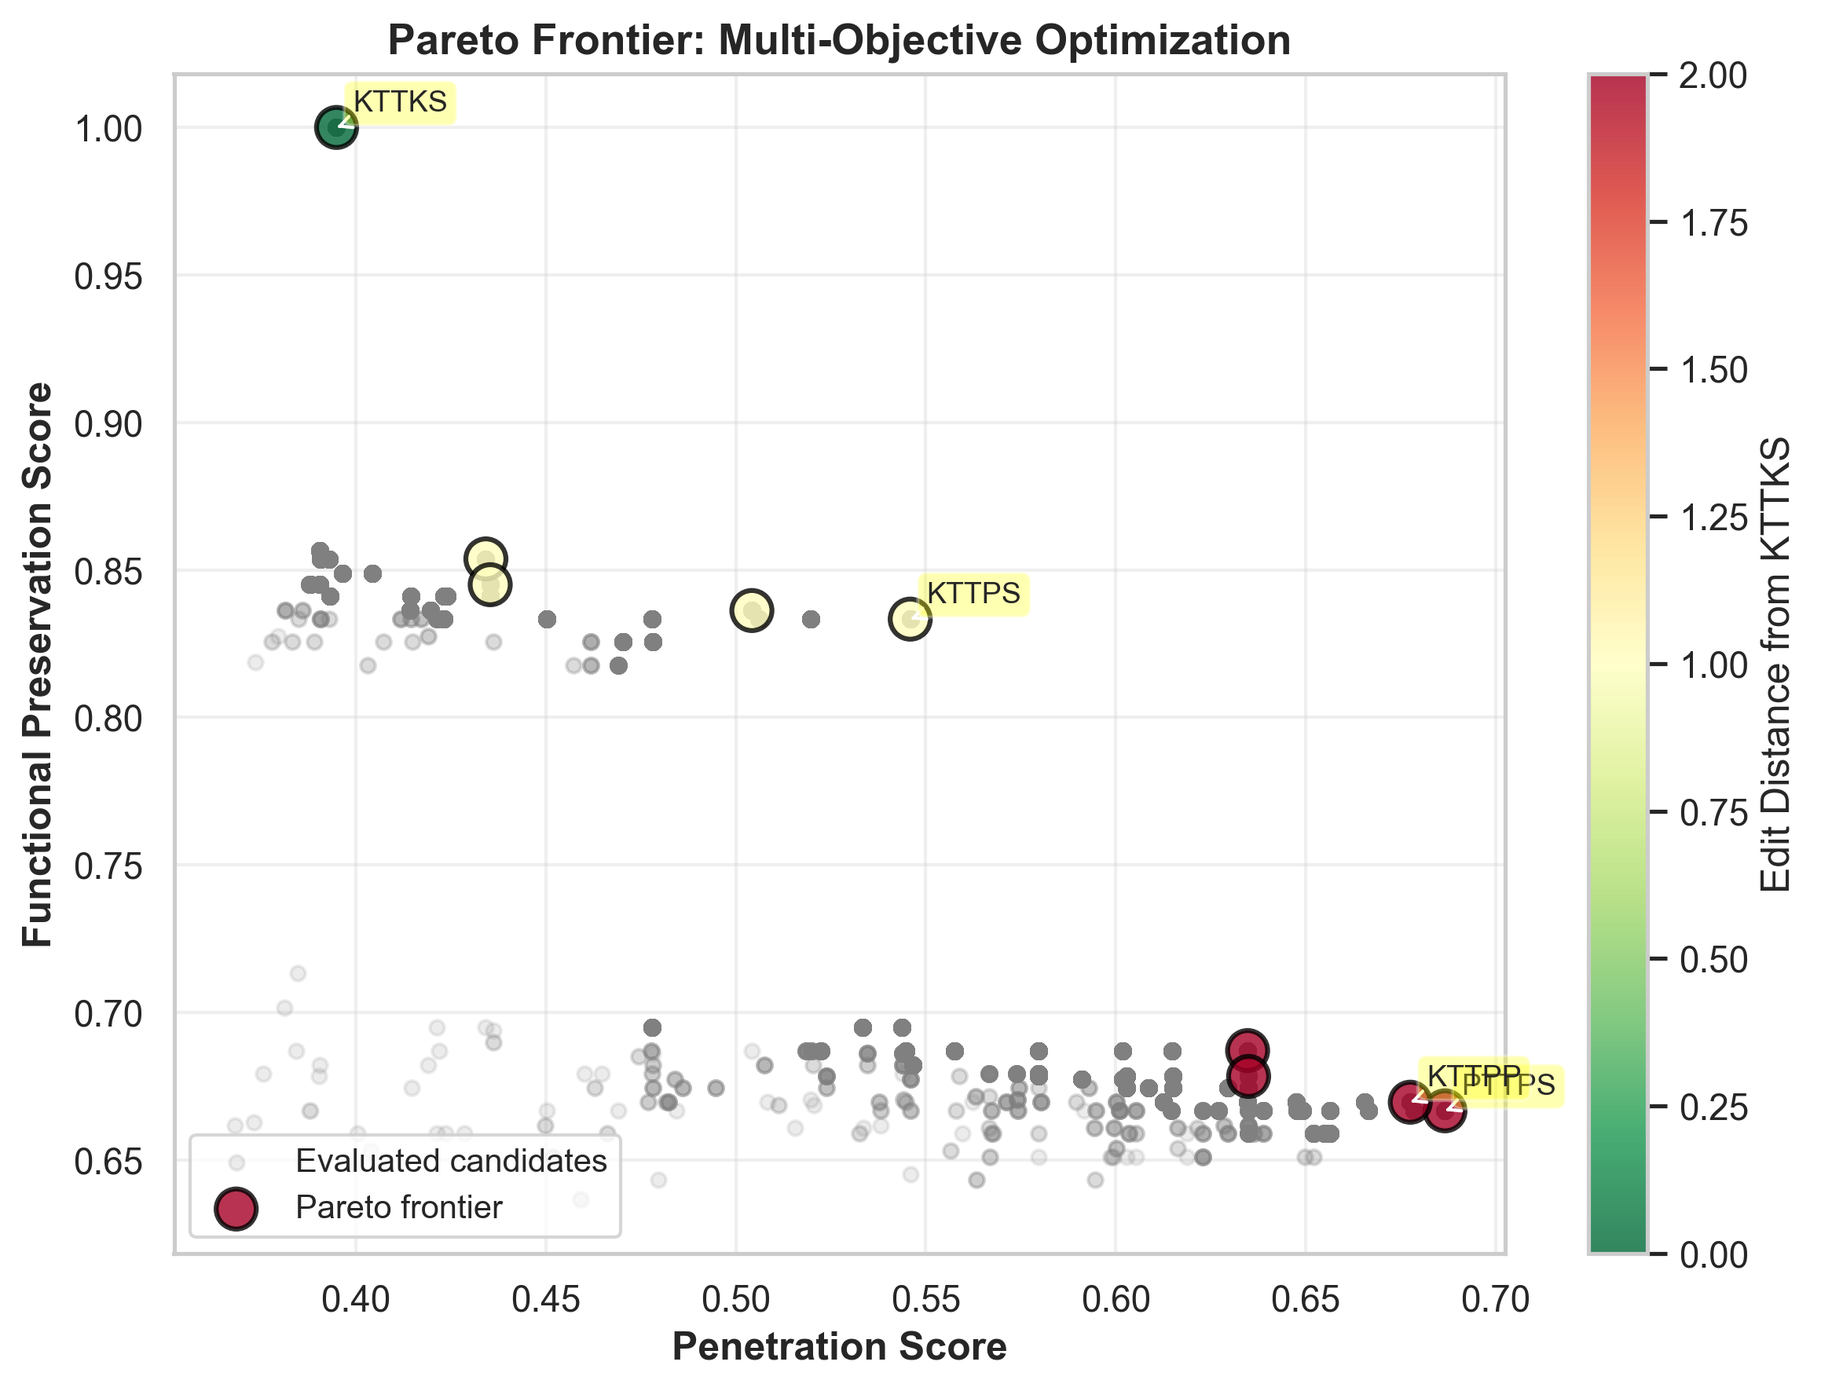
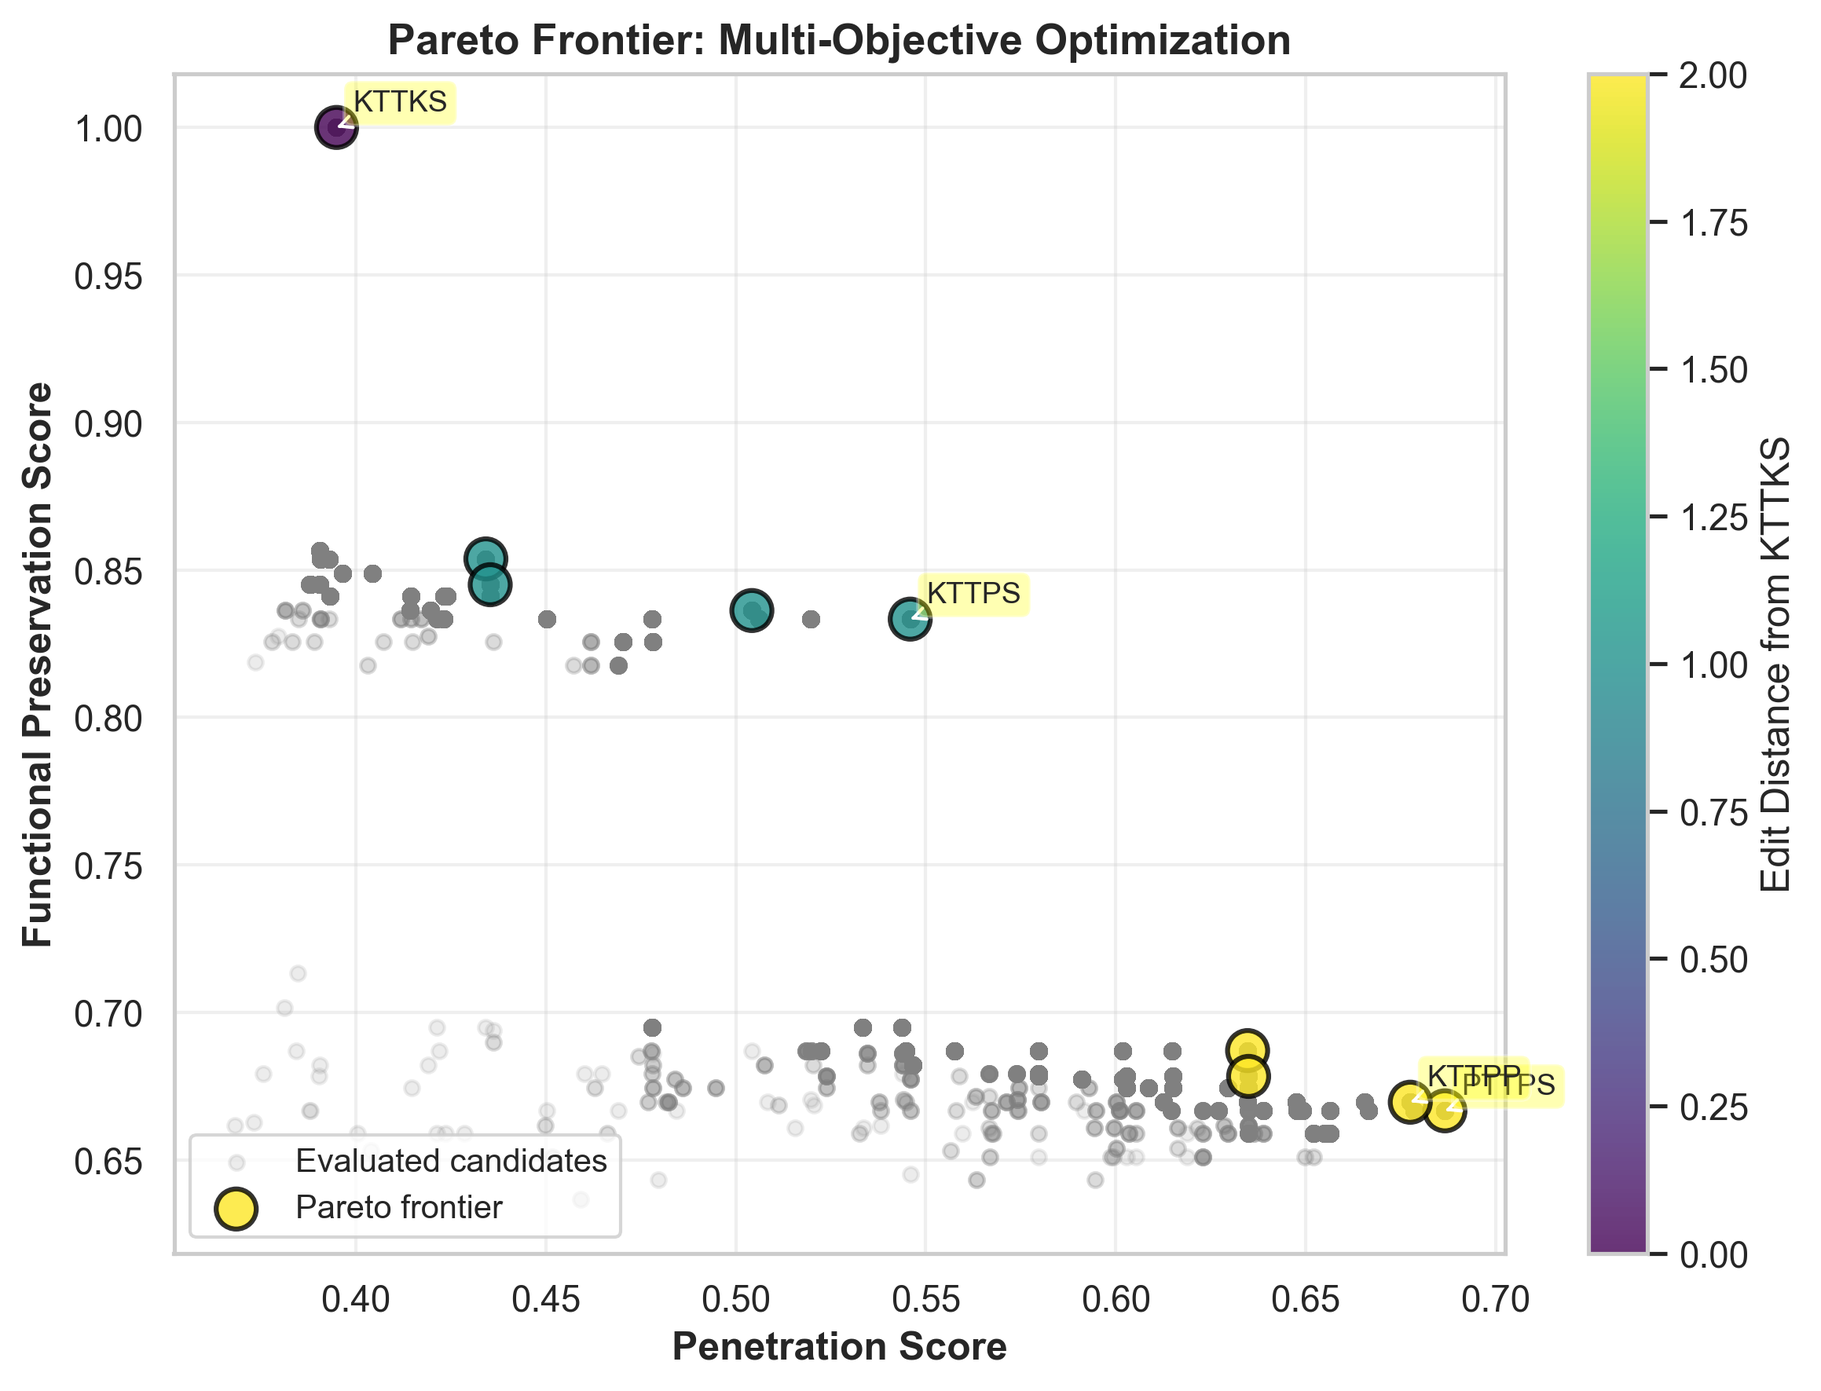
Tier 3 manuscript polish: colorblind-safe figure, equation labels, captions
Closes the Tier 3 polish pass identified by the manuscript audit. Targeted
clean-ups; no new content, no structural changes.

Figures
- scripts/generate_figures.py: swap Fig 1 (Pareto frontier) colormap from
  RdYlGn_r to viridis. Red-green diverging palettes fail for ~8% of male
  readers; viridis is perceptually uniform and colorblind-safe. Regenerated
  manuscript/figures/01_pareto_frontier.png.

Math notation consistency
- Standardize molecular weight to $M_w$ (italic chemistry-paper convention)
  across prose, table headers, table-row labels, and the absolute-value form
  inside the f_MW penalty definition. Function-subscript names f_{\text{MW}},
  f_{\text{TPSA}}, etc. are intentionally left as-is because they are
  function names, not variable references.
- Fix one messy LaTeX expression: \text{|MW} - 500\text{|} -> |M_w - 500|.
- Fix one bare "±30\%" -> "$\pm 30\%$" inside running text.

Equation labels and cross-references
- Add labels to all six standalone equations: eq:penetration_score,
  eq:function_score, eq:synthesis_score, eq:rog, eq:blosum_norm,
  eq:edit_distance.
- Add prose cross-references at the two natural points (Eq. 1 in penetration
  rationale, Eq. 2 in function rationale).
- Reference eq:rog from Table 4 caption.

Caption self-containedness (3 figures, 2 tables)
- Fig 1: explain "non-dominated", state axis ranges, name the viridis palette.
- Fig 3: state that frequencies = count / 9 (frontier size).
[…]

diff --git a/manuscript/main.tex b/manuscript/main.tex
@@ -62,7 +62,7 @@ Cosmetic peptides like Matrixyl (KTTKS) offer collagen-stimulating activity but 
 
 \smallskip
 \noindent
-\textbf{Keywords:} peptide design, evolutionary algorithms, NSGA-II, topical delivery, constrained optimization, Pareto frontier
+\textbf{Keywords:} peptide design, NSGA-II, topical delivery, Pareto frontier, Matrixyl, matrikine
 \end{abstract}
 
 \newpage
@@ -90,7 +90,7 @@ Evolutionary algorithms, by contrast, excel at navigating discrete combinatorial
 
 For the Matrixyl case, an evolutionary approach offers three specific advantages:
 \begin{enumerate}
-  \item \textbf{Explicit control over objectives}: We can quantify both penetration (TPSA, MW, LogP) and function (motif preservation, edit distance) simultaneously.
+  \item \textbf{Explicit control over objectives}: We can quantify both penetration (TPSA, $M_w$, LogP) and function (motif preservation, edit distance) simultaneously.
   \item \textbf{Exhaustive validation}: The small search space (3,706 candidates for ED $\leq 2$) permits enumeration of the entire neighborhood, enabling ground-truth validation of algorithm performance.
   \item \textbf{Interpretability}: Every mutation can be mechanistically explained in terms of descriptor changes, facilitating hypothesis generation for experiments.
 \end{enumerate}
@@ -143,7 +143,7 @@ To maintain biological plausibility and tractability, the search space was const
 For validation and benchmarking, the following control molecules were evaluated through the same scoring pipeline:
 \begin{itemize}
   \item \textbf{KTTKS}: Unmodified Matrixyl core (baseline reference).
-  \item \textbf{Pal-KTTKS}: N-terminal palmitoyl-conjugated KTTKS (MW 802.07 Da, SMILES from PubChem CID 9897237).
+  \item \textbf{Pal-KTTKS}: N-terminal palmitoyl-conjugated KTTKS ($M_w$~802.07~Da, SMILES from PubChem CID 9897237).
   \item \textbf{GPKGDPGA}: Collagen-like control motif (previously used in early iterations; included for completeness).
 \end{itemize}
 
@@ -174,7 +174,7 @@ The seven molecular descriptors used to quantify topical-delivery character are 
 \toprule
 \textbf{Descriptor} & \textbf{Unit} & \textbf{Rationale} \\
 \midrule
-Molecular Weight & Da & Increased MW limits passive diffusion \\
+Molecular weight ($M_w$) & Da & Increased $M_w$ limits passive diffusion \\
 TPSA (Topological Polar SA) & $\text{\AA}^2$ & Polar surface area inversely correlated with permeability \\
 LogP (octanol-water partition) & -- & Lipophilicity; optimal range 1--3 for transdermal \\
 H-bond donors & count & More donors $\Rightarrow$ more favorable polar interactions with SC \\
@@ -195,17 +195,18 @@ The penetration score is a composite normalized metric (range $[0, 1]$) that pen
 
 \begin{equation}
 \text{penetration\_score} = \max(0.01, f_{\text{MW}} \cdot f_{\text{TPSA}} \cdot f_{\text{LogP}} \cdot f_{\text{HB}})
+\label{eq:penetration_score}
 \end{equation}
 
 where:
 \begin{align}
-f_{\text{MW}} &= \max(0, 1 - \frac{\text{|MW} - 500\text{|}}{100}) \\
+f_{\text{MW}} &= \max\!\left(0,\, 1 - \frac{|M_w - 500|}{100}\right) \\
 f_{\text{TPSA}} &= \max(0, 1 - \frac{\text{max}(0, \text{TPSA} - 140)}{100}) \\
 f_{\text{LogP}} &= \max(0, 1 - |\text{LogP} - 2|) \\
 f_{\text{HB}} &= \max(0, 1 - \frac{(\text{HBD} + \text{HBA}) - 10}{10})
 \end{align}
 
-\textbf{Rationale}: The thresholds (MW $< 500$ Da, TPSA $< 140$ $\text{\AA}^2$, LogP $\approx 1$--$3$) derive from extensive transdermal drug permeability literature\cite{potts1992, prausnitz2004}. We apply these as \textit{soft penalties} (not hard cutoffs) because peptides often violate these rules and still permeate, especially when formulated. The multiplicative structure ensures that failure to meet any single objective significantly reduces overall score.
+\textbf{Rationale}: The thresholds ($M_w < 500$~Da, TPSA $< 140$ $\text{\AA}^2$, LogP $\approx 1$--$3$) derive from extensive transdermal drug permeability literature\cite{potts1992, prausnitz2004}. We apply these as \textit{soft penalties} (not hard cutoffs) because peptides often violate these rules and still permeate, especially when formulated. The multiplicative structure of Eq.~\ref{eq:penetration_score} ensures that failure to meet any single objective significantly reduces overall score.
 
 \subsubsection{Functional Preservation Score}
 
@@ -213,6 +214,7 @@ The functional preservation score (range $[0, 1]$) quantifies how much a candida
 
 \begin{equation}
 \text{function\_score} = 0.40 \cdot f_{\text{id}} + 0.40 \cdot f_{\text{ED}} + 0.20 \cdot f_{\text{BLOSUM}}
+\label{eq:function_score}
 \end{equation}
 
 where:
@@ -224,7 +226,7 @@ f_{\text{BLOSUM}} &= \frac{1}{5} \sum_{i=1}^{5} \text{BLOSUM62}_{\text{ref}[i], 
 
 The BLOSUM62 score is normalized by dividing the sum by 5 (sequence length) and then by the maximum possible BLOSUM62 value (4.0 for identical residues), yielding a score in $[0, 1]$.
 
-\textbf{Rationale}: Position 4 lysine is known to be critical for collagen-stimulating activity in matrikines\cite{katayama1993}. The weighted scheme reflects uncertainty: exact identity is valued (0.40 weight) but edit distance also matters (0.40 weight), and conservative substitutions should not be penalized as heavily as drastic mutations (0.20 weight). This scheme is transparent and easily modifiable if new functional data becomes available.
+\textbf{Rationale}: Position 4 lysine is known to be critical for collagen-stimulating activity in matrikines\cite{katayama1993}. The weighted scheme of Eq.~\ref{eq:function_score} reflects uncertainty: exact identity is valued (0.40 weight) but edit distance also matters (0.40 weight), and conservative substitutions should not be penalized as heavily as drastic mutations (0.20 weight). This scheme is transparent and easily modifiable if new functional data becomes available.
 
 \subsubsection{Synthesis Feasibility Score}
 
@@ -232,6 +234,7 @@ For the initial fixed-length ED$\leq 2$ search space using only canonical amino 
 
 \begin{equation}
 \text{synthesis\_score} = 1.0 \quad \text{(for all candidates)}
+\label{eq:synthesis_score}
 \end{equation}
 
 This score was defined to allow future extension to non-canonical residues or modified backbones, where synthesis complexity could be explicitly penalized.
@@ -309,7 +312,7 @@ The evolutionary frontier was then compared against the exhaustive frontier to c
 To assess robustness, Phase 2 was re-run with $\pm 30\%$ variations in penalty weights:
 \begin{itemize}
   \item TPSA penalty multiplied by 0.7, 1.0, 1.3
-  \item MW penalty multiplied by 0.7, 1.0, 1.3
+  \item $M_w$ penalty multiplied by 0.7, 1.0, 1.3
   \item LogP penalty multiplied by 0.7, 1.0, 1.3
 \end{itemize}
 
@@ -340,6 +343,7 @@ For the top 5 evolved candidates and baselines, three-dimensional conformer ense
 \textbf{Radius of Gyration}: Defined as:
 \begin{equation}
 R_g = \sqrt{\frac{1}{N} \sum_{i=1}^{N} (\mathbf{r}_i - \mathbf{r}_{\text{cm}})^2}
+\label{eq:rog}
 \end{equation}
 where $\mathbf{r}_i$ is the position of atom $i$ and $\mathbf{r}_{\text{cm}}$ is the center of mass. RoG is a proxy for molecular size and flexibility; smaller RoG indicates a more compact, diffusion-favorable conformation.
 
@@ -397,7 +401,7 @@ NSGA-II identified a 9-member non-dominated frontier (Figure~\ref{fig:pareto}).
 \small
 \begin{tabular}{lcccccc}
 \toprule
-\textbf{Sequence} & \textbf{Pen.} & \textbf{Func.} & \textbf{MW (Da)} & \textbf{TPSA ($\text{\AA}^2$)} & \textbf{Edit Dist.} & \textbf{Role} \\
+\textbf{Sequence} & \textbf{Pen.} & \textbf{Func.} & \textbf{$M_w$ (Da)} & \textbf{TPSA ($\text{\AA}^2$)} & \textbf{Edit Dist.} & \textbf{Role} \\
 \midrule
 PTTPS & 0.687 & 0.667 & 501.5 & 217.6 & 2 & High-pen trade-off \\
 KTTPP & 0.678 & 0.670 & 542.6 & 228.6 & 2 & High-pen variant \\
@@ -427,7 +431,7 @@ This structure clearly visualizes the permeability-function trade-off and sugges
 \begin{figure}[H]
 \centering
 \includegraphics[width=0.8\textwidth]{figures/01_pareto_frontier.png}
-\caption{Pareto frontier from NSGA-II multi-objective optimization. Scatter plot shows penetration score (x-axis) vs functional preservation score (y-axis). All evaluated candidates shown in gray; Pareto frontier members highlighted and colored by edit distance. Key candidates (PTTPS, KTTKS, KTTPS, KTTPP) are annotated.}
+\caption{Pareto frontier from NSGA-II multi-objective optimization. Each point is a candidate peptide; the colored frontier members are non-dominated, meaning no other candidate is simultaneously better on all three objectives (penetration, functional preservation, synthesis feasibility). Both axes range over $[0, 1]$. All evaluated candidates are shown in gray; frontier members are colored by edit distance from the KTTKS baseline (viridis palette: dark = ED~0, bright = ED~2). Key candidates (PTTPS, KTTKS, KTTPS, KTTPP) are annotated.}
 \label{fig:pareto}
 \end{figure}
 
@@ -458,7 +462,7 @@ S5P & 5 (Ser$\to$Pro) & 2 & 22.2\% & Restricts C-terminus \\
 K1P & 1 (Lys$\to$Pro) & 1 & 11.1\% & Rare; only in extreme PTTPS \\
 \bottomrule
 \end{tabular}
-\caption{Mutation enrichment on Pareto frontier (9 candidates analyzed).}
+\caption{Mutation enrichment on the Pareto frontier (e.g., K4P denotes a Lys$\to$Pro substitution at position 4). Counts and frequencies are computed across the 9-member frontier.}
 \label{tab:mutations}
 \end{table}
 
@@ -474,7 +478,7 @@ These position-by-mutation patterns are visualized in Figure~\ref{fig:mutations}
 \begin{figure}[H]
 \centering
 \includegraphics[width=0.8\textwidth]{figures/03_mutations.png}
-\caption{Mutation enrichment heatmap. Position (rows 1-5) versus amino acid mutation (columns) showing frequency of mutations appearing on the Pareto frontier. K4P (lysine to proline at position 4) is the dominant mutation, appearing in 55.6\% of frontier candidates. Position 5 mutations are more variable (Ser$\to$Ala, Ser$\to$Gly, Ser$\to$Pro each at 22.2\%).}
+\caption{Mutation enrichment heatmap. Position (rows 1--5) versus amino-acid substitution (columns), showing the fraction of the 9-member Pareto frontier carrying each mutation (frequency = count / 9). K4P (Lys$\to$Pro at position 4) is the dominant mutation, present in 55.6\% of frontier candidates. Position 5 substitutions are more variable, with Ser$\to$Ala, Ser$\to$Gly, and Ser$\to$Pro each at 22.2\%.}
 \label{fig:mutations}
 \end{figure}
 
@@ -496,14 +500,14 @@ KTTKS & Baseline & 5.47 & — & 4th \\
 Pal-KTTKS & Lipidated & 8.56 & +56.3\% & 5th (least compact) \\
 \bottomrule
 \end{tabular}
-\caption{Radius of gyration (RoG) from RDKit conformer ensembles. Lower RoG indicates more compact structure.}
+\caption{Radius of gyration (RoG), a one-number summary of molecular extent computed from 8-conformer RDKit ETKDG ensembles (Eq.~\ref{eq:rog}). Lower RoG indicates a more compact, diffusion-favorable conformation.}
 \label{tab:rog}
 \end{table}
 
 \textbf{Key findings}:
 \begin{enumerate}
   \item \textbf{PTTPS is most compact}: Mean RoG of 4.83 $\text{\AA}$ is 12.0\% smaller than KTTKS baseline (5.47 $\text{\AA}$), consistent with the hypothesis that K4P substitution (replacing large, hydrophobic-poor lysine with compact proline) reduces conformational size.
-  \item \textbf{Pal-KTTKS remains spatially extended}: Despite improved LogP (+0.99 vs KTTKS), the palmitoyl tail extends the conformational ensemble to 8.56 $\text{\AA}$ mean RoG (56.3\% larger). This explains why palmitoylation does not yield proportional penetration gains: the MW and spatial size penalties outweigh the LogP improvement.
+  \item \textbf{Pal-KTTKS remains spatially extended}: Despite improved LogP (+0.99 vs KTTKS), the palmitoyl tail extends the conformational ensemble to 8.56 $\text{\AA}$ mean RoG (56.3\% larger). This explains why palmitoylation does not yield proportional penetration gains: the $M_w$ and spatial size penalties outweigh the LogP improvement.
   \item \textbf{Compactness correlates with penetration}: The rank ordering of RoG (PTTPS $<$ KTTPS $<$ KTTPP $<$ KTTKS $<$ Pal-KTTKS) mirrors the penetration rank (0.687 $>$ 0.546 $>$ 0.678 $>$ 0.395 $>$ 0.508), supporting the hypothesis that conformational compactness favors diffusion.
 \end{enumerate}
 
@@ -542,7 +546,7 @@ Figure~\ref{fig:searchspace} situates the Pareto frontier within the full 3,706-
 \begin{figure}[H]
 \centering
 \includegraphics[width=0.85\textwidth]{figures/04_search_space.png}
-\caption{Search space visualization showing all evaluated candidates (points colored by edit distance) and Pareto frontier members (starred, colored by edit distance). Baseline KTTKS shown as gold diamond. Search space is driven by penetration score (x-axis) vs molecular weight (y-axis). Frontier dominates the high-penetration, low-MW region of the search space.}
+\caption{Search space visualization. Each point is one of the 3,706 candidates in the ED $\leq 2$ neighborhood of KTTKS, plotted as penetration score ($x$-axis) against molecular weight ($y$-axis) and colored by edit distance from the baseline (viridis palette: dark = ED~0, bright = ED~2). Pareto frontier members are starred; baseline KTTKS is shown as a gold diamond. The frontier dominates the high-penetration, low-$M_w$ region of the search space.}
 \label{fig:searchspace}
 \end{figure}
 
@@ -555,7 +559,7 @@ Figure~\ref{fig:searchspace} situates the Pareto frontier within the full 3,706-
 
 \subsection{Phase 6: Sensitivity Analysis (Parameter Robustness)}
 
-±30\% variations in TPSA, MW, and LogP penalties were applied to the Phase 2 frontier. Results:
+$\pm 30\%$ variations in TPSA, $M_w$, and LogP penalties were applied to the Phase 2 frontier. Results:
 
 \begin{table}[H]
 \centering
@@ -567,8 +571,8 @@ Figure~\ref{fig:searchspace} situates the Pareto frontier within the full 3,706-
 Baseline (no variation) & — & — \\
 TPSA -30\% & 0.2 & 1 \\
 TPSA +30\% & 0.1 & 0 \\
-MW -30\% & 0.3 & 1 \\
-MW +30\% & 0.2 & 1 \\
+$M_w$ $-30\%$ & 0.3 & 1 \\
+$M_w$ $+30\%$ & 0.2 & 1 \\
 LogP -30\% & 0.4 & 2 \\
 LogP +30\% & 0.3 & 1 \\
 \toprule
@@ -648,7 +652,7 @@ Recent PLM-based peptide design studies\cite{esm2023, madani2023} focus on natur
 
 \subsubsection{Transdermal Delivery Literature}
 
-Our descriptor thresholds (MW $< 500$, TPSA $< 140$) derive from Potts \& Guy (1992)\cite{potts1992} and Mitragotri et al.\ (2004)\cite{prausnitz2004}, which synthesized transdermal permeability data from hundreds of small molecules. Applying these thresholds to peptides is a deliberate extrapolation, justified by the observation that peptides generally follow similar rules but with higher variance\cite{mitragotri2014}. By using soft penalties rather than hard cutoffs, we acknowledge this uncertainty while still guiding optimization toward delivery-favorable ranges.
+Our descriptor thresholds ($M_w < 500$, TPSA $< 140$) derive from Potts \& Guy (1992)\cite{potts1992} and Prausnitz, Mitragotri \& Langer (2004)\cite{prausnitz2004}, which synthesized transdermal permeability data from hundreds of small molecules. Applying these thresholds to peptides is a deliberate extrapolation, justified by the observation that peptides generally follow similar rules but with higher variance\cite{mitragotri2014}. By using soft penalties rather than hard cutoffs, we acknowledge this uncertainty while still guiding optimization toward delivery-favorable ranges.
 
 \subsubsection{Evolutionary Peptide Design}
 
@@ -674,7 +678,7 @@ RDKit conformer ensembles provide useful proxies for molecular size and flexibil
 
 \subsubsection{No Skin-Specific Binding or Metabolism}
 
-The penetration score penalizes TPSA and MW globally; it does not model stratum corneum-specific protein binding, enzymatic degradation, or pH-dependent charge states in different skin compartments. These factors could significantly modulate actual permeability and are left to experimental determination.
+The penetration score penalizes TPSA and $M_w$ globally; it does not model stratum corneum-specific protein binding, enzymatic degradation, or pH-dependent charge states in different skin compartments. These factors could significantly modulate actual permeability and are left to experimental determination.
 
 \subsubsection{Edit Distance 2 is Conservative}
 
@@ -768,6 +772,7 @@ For position-by-position functional-preservation scoring, we normalized BLOSUM62
 
 \begin{equation}
 f_{\text{BLOSUM}}[i] = \max(0, \min(1, 0.5 + 0.125 \cdot \text{BLOSUM62}[{\rm ref}[i], {\rm cand}[i]]))
+\label{eq:blosum_norm}
 \end{equation}
 
 This maps BLOSUM62 scores in the range $[-4, +4]$ to $[0.5, 1]$, ensuring even mismatch-penalizing (negative BLOSUM62) substitutions receive some credit if they are less bad than random.
@@ -785,6 +790,7 @@ The 3,706-candidate fixed-length ED$\leq 2$ neighborhood was generated via dynam
 \text{ED}(\text{seq1}[1:], \text{seq2}[1:]) & \text{(substitute)}
 \end{cases}
 \end{cases}
+\label{eq:edit_distance}
 \end{equation}
 
 For fixed-length sequences of length 5, insertions and deletions are not applicable, so ED reduces to the number of substitutions required (Hamming distance for equal-length strings). The enumeration algorithm:

diff --git a/scripts/generate_figures.py b/scripts/generate_figures.py
@@ -37,7 +37,7 @@ def fig_pareto_frontier():
 
     # Pareto frontier in foreground
     scatter = ax.scatter(df['penetration_objective'], df['functional_objective'],
-                        s=150, c=df['edit_distance'], cmap='RdYlGn_r',
+                        s=150, c=df['edit_distance'], cmap='viridis',
                         edgecolors='black', linewidth=1.5, alpha=0.8,
                         label='Pareto frontier')
 
